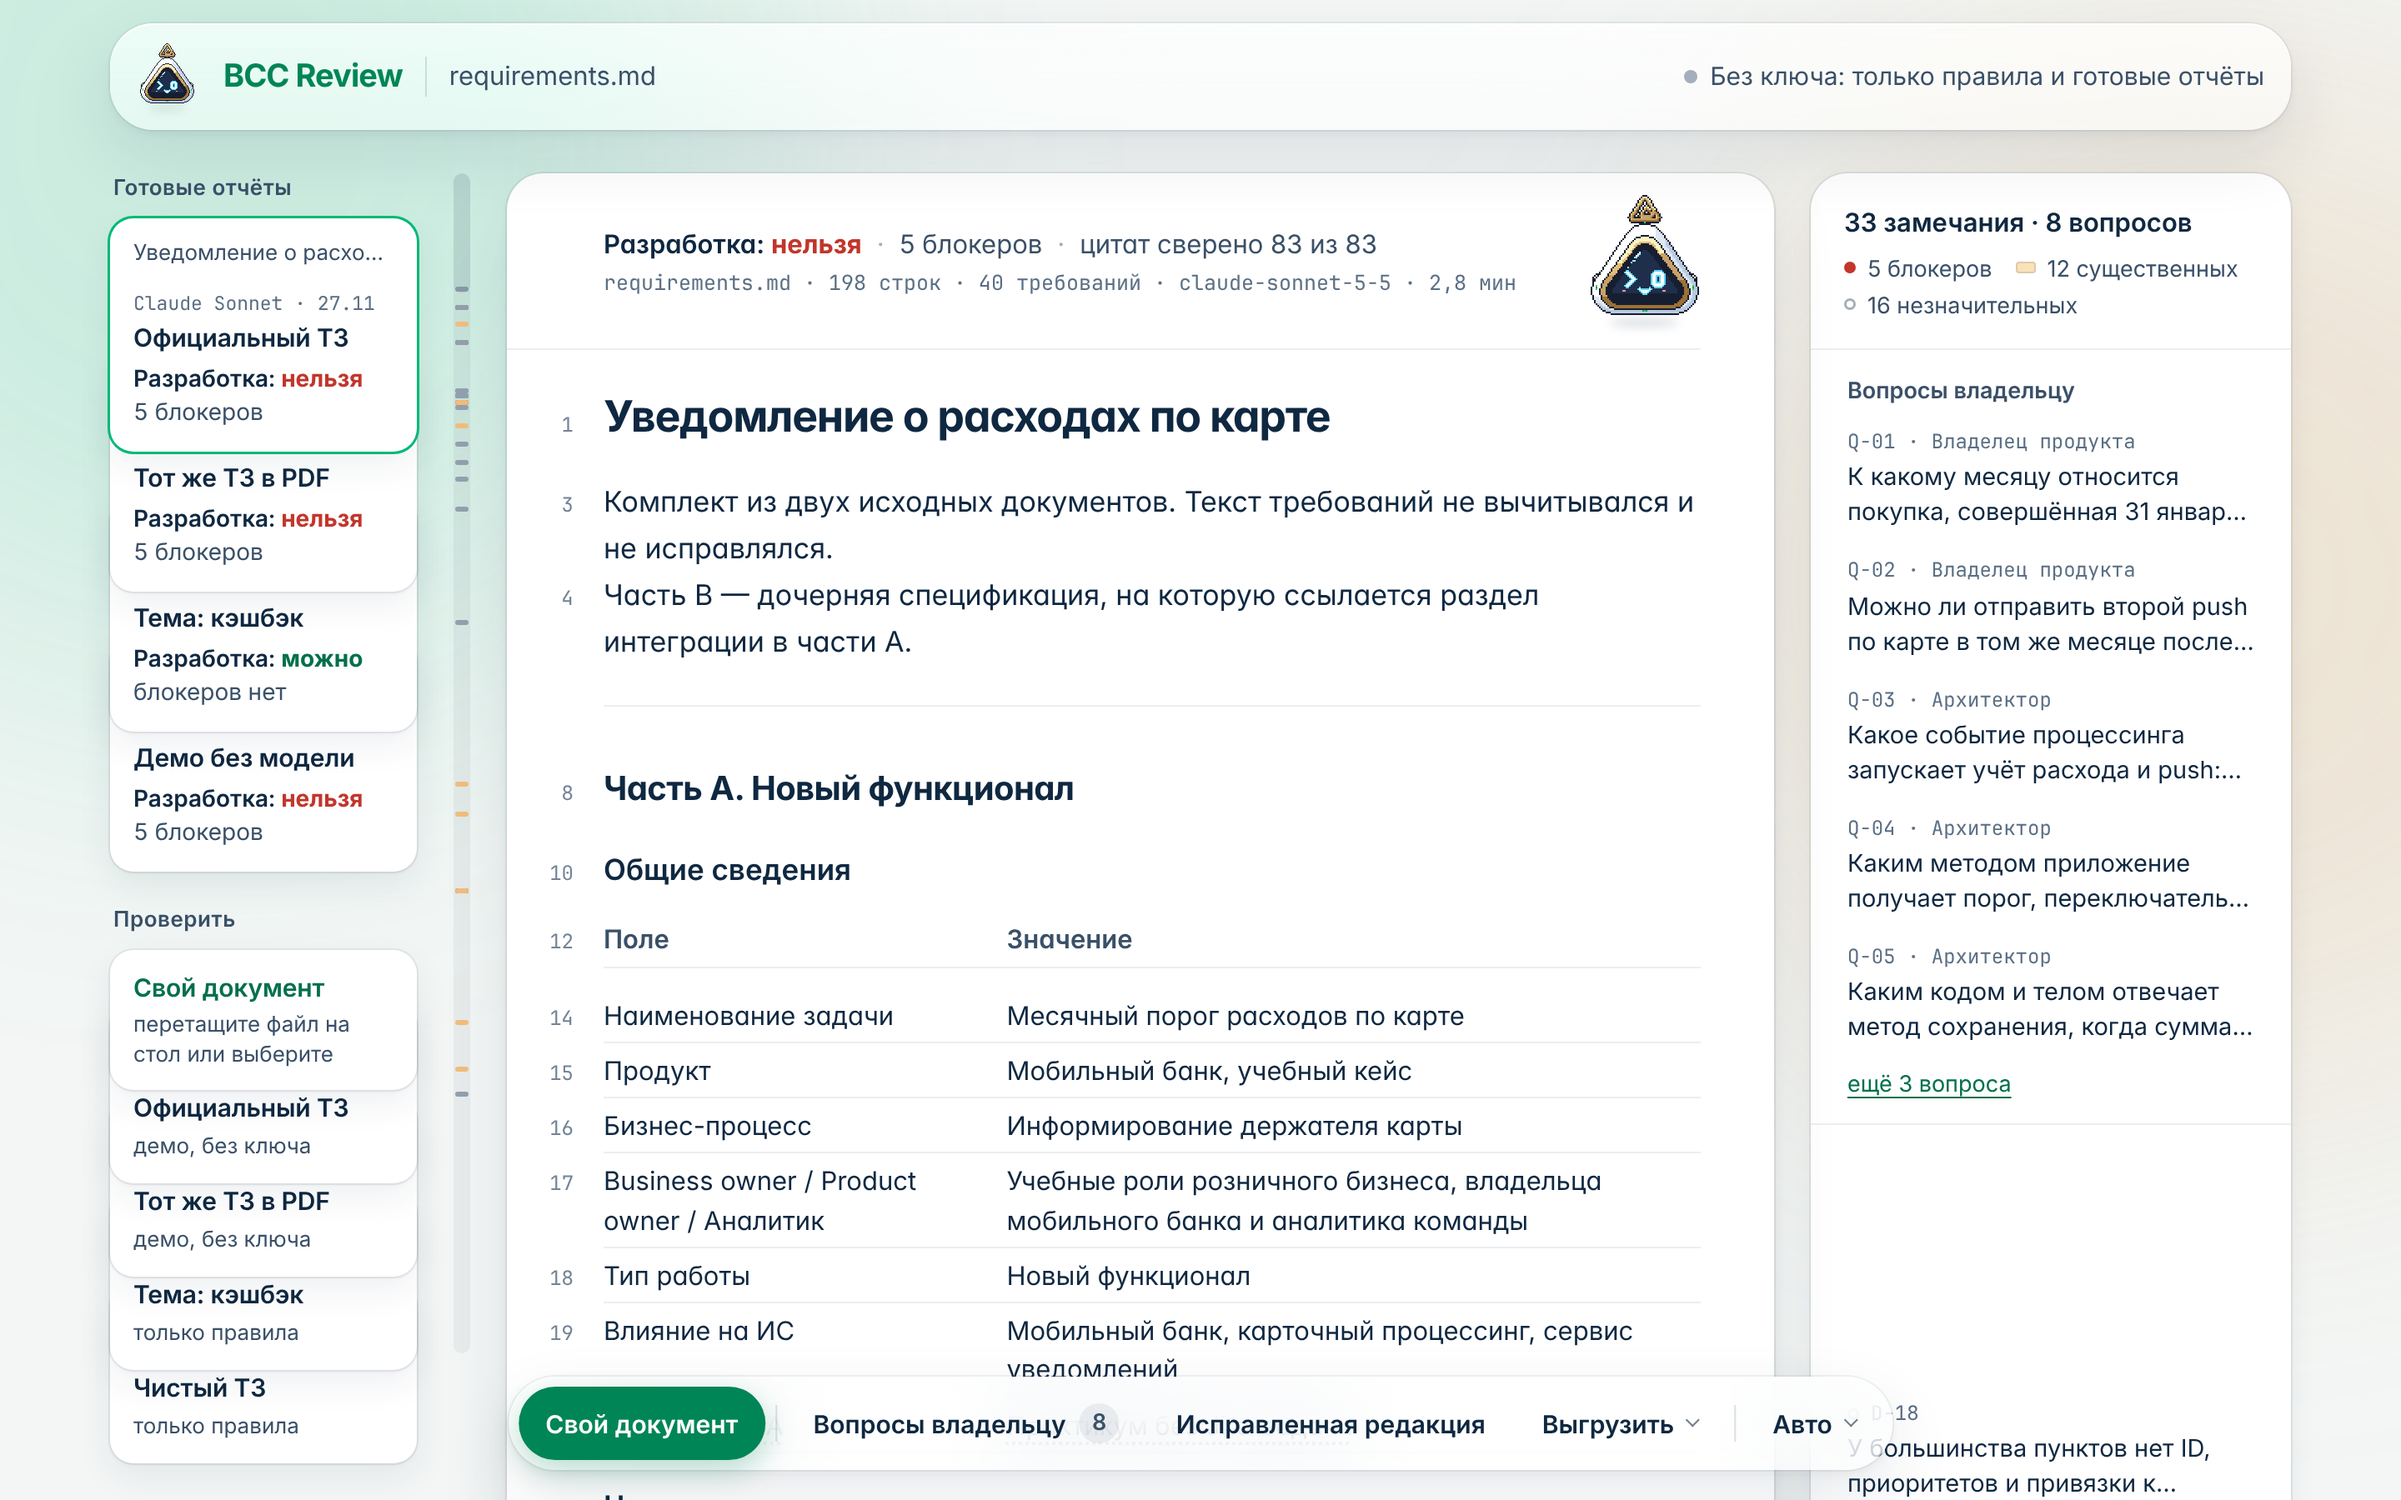
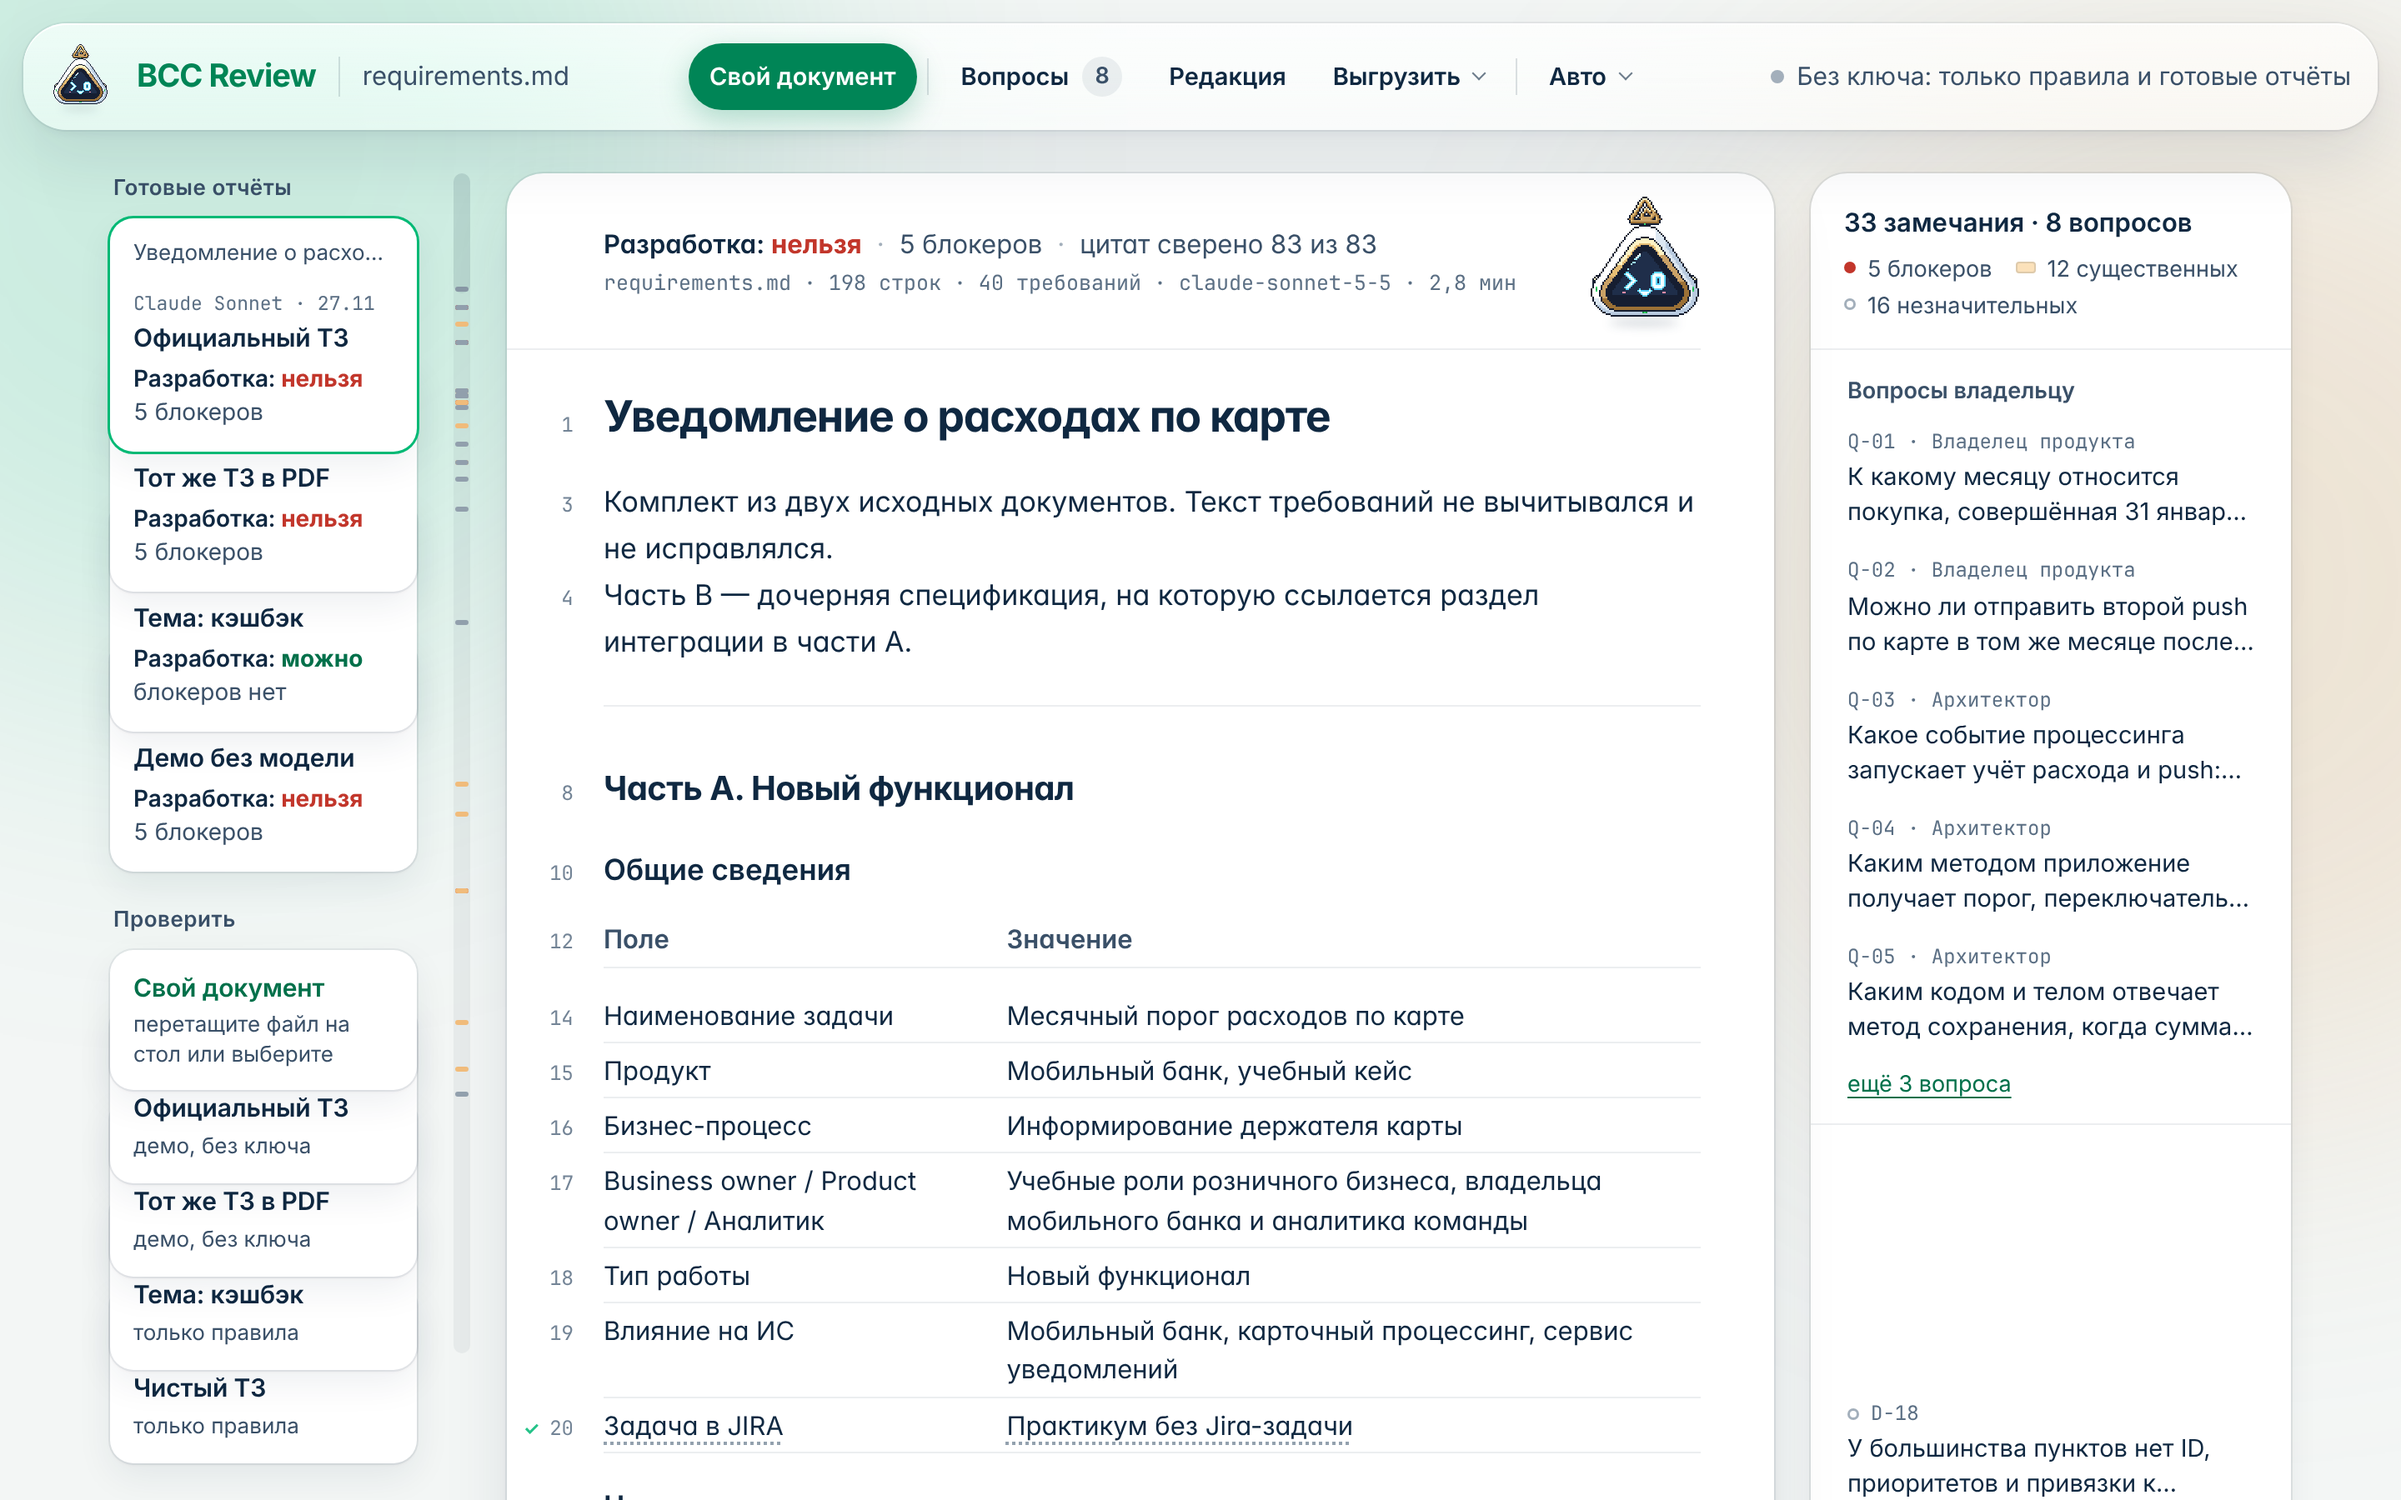
v2 веб: главная — одна верхняя панель, как на странице отчёта (просьба владельца); на телефоне панель внизу
Claude-Session: https://claude.ai/code/session_01VT8Pqg79A42y4qxSdi8TJx

diff --git a/src/bcc_review/v2/web/assets/app.css b/src/bcc_review/v2/web/assets/app.css
@@ -131,3 +131,20 @@
 .answers{display:inline-flex;margin:0}
 .dl.ans{cursor:pointer;box-shadow:inset 0 0 0 1px var(--b-green);color:var(--b-green-ink) !important}
 @media (max-width:720px){.phead{flex-direction:column;align-items:flex-start}}
+
+/* ── одна верхняя панель и на главной (владелец 27.11): шире 760 px app.js переносит панель действий в шапку .b-bar,
+ *    как вкладки отчёта (job.css .b-bar-tabs); меню и сообщения открываются вниз ── */
+.b-bar-home{max-width:min(1520px,calc(100% - 28px))}
+.b-bar-home>.b-dock{position:static;transform:none;z-index:auto;flex:0 0 auto;max-width:none;margin:0 auto;padding:0;
+  border-radius:0;background:none;box-shadow:none;-webkit-backdrop-filter:none;backdrop-filter:none}
+.b-bar-home>.b-dock>a,.b-bar-home>.b-dock>button,.b-bar-home>.b-dock>label,.b-bar-home .b-menu>summary{height:40px;padding:0 13px;font-size:14.5px}
+.b-bar-home .b-bar-doc{flex:0 1 auto}
+.b-bar-home .b-bar-end{flex:0 1 auto;margin-left:0}
+.b-bar-home .b-menu-pop{top:calc(100% + 12px);bottom:auto}
+.b-bar-home .dock-msg{top:calc(100% + 12px);bottom:auto}
+@media (max-width:1680px){.b-bar-home>.b-dock .long{display:none}.b-bar-home>.b-dock .short{display:inline}}
+@media (max-width:1120px){
+  .b-bar-home{flex-wrap:wrap;row-gap:2px}
+  .b-bar-home .b-bar-end{margin-left:auto}
+  .b-bar-home>.b-dock{order:3;flex:1 0 100%;justify-content:center;flex-wrap:wrap}
+}

diff --git a/src/bcc_review/v2/web/assets/app.js b/src/bcc_review/v2/web/assets/app.js
@@ -6,6 +6,19 @@
   /* ── стол (№39): своя проверка — выбрать или бросить файл; меню модели ── */
   var form = $("#form");
   if (form && form.classList.contains("b-dock")) {
+    // одна верхняя панель и на главной (владелец 27.11: «сначала снизу, потом наверху»): шире телефона панель
+    // действий стоит в шапке .b-bar, как на странице отчёта; на телефоне — внизу, под большим пальцем
+    var bar = document.querySelector("header.b-bar"), wide = window.matchMedia ? window.matchMedia("(min-width: 761px)") : null;
+    if (bar && wide) {
+      var spot = document.createComment("dock");
+      form.parentNode.insertBefore(spot, form);
+      var place = function () {
+        if (wide.matches) { bar.insertBefore(form, bar.querySelector(".b-bar-end")); bar.classList.add("b-bar-home"); }
+        else { spot.parentNode.insertBefore(form, spot.nextSibling); bar.classList.remove("b-bar-home"); }
+      };
+      place();
+      if (wide.addEventListener) wide.addEventListener("change", place); else if (wide.addListener) wide.addListener(place);
+    }
     var file = $("#file"), veil = $("#veil"), dmsg = $("#dmsg"), pnote = $("#pnote"), pcur = $("#pcur");
     var model = $("#model"), models = $("#models");
     var radios = form.querySelectorAll('input[name="provider"]');

diff --git a/docs/plan-v2/INTEGRATION.md b/docs/plan-v2/INTEGRATION.md
@@ -5,6 +5,10 @@
 
 ## Объявления (новые сверху)
 
+* **27.11 22:35 — №11: главная сайта — одна верхняя панель, как на странице отчёта (просьба владельца: «сначала снизу, потом наверху»).**
+  * Только `web/assets/app.js` и `app.css`: шире 760 px панель «Свой документ · Вопросы · Редакция · Выгрузить · модель» стоит в шапке `.b-bar`, меню открываются вниз; на телефоне — внизу, как было. Анализ и отчёты не менялись.
+  * **Проверки:** тесты веба `tests/v2` (9 файлов) — 182 passed; в браузере 1440, 1000 и 390 px — панель на месте, меню открываются, ошибок страницы нет; страница отчёта не изменилась. README: `presentation/img/web_home.png` переснят.
+
 * **27.11 22:18 — №11: влиты отчёты сдачи №36 `4c6d2d64` на финальной голове кода `0a30c67a`: `reports/`, README, SUBMISSION (`bcc/v2` = `release` = `main`).**
   * Официальный MD (sonnet, без кэша, 2,8 мин): **К 5/5 критичными, С 20/20, ключевые 25/25**, ложных critical 0, замечаний 33 (дублей 2). Тот же ТЗ из PDF: К 5/5, С 18/20, 23/25. Кэшбэк (другая тема): «можно», 0 critical.
   * **Проверки:** `verify` OK у всех трёх (цитат 83/83, 87/87, 13/13); `scripts/check_links.py` — 48 ссылок, битых 0; `tests/v2/test_36_links.py` 10 passed; анти-подгонка чисто; вызовов из кэша 0.
